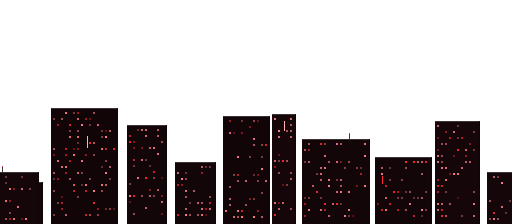
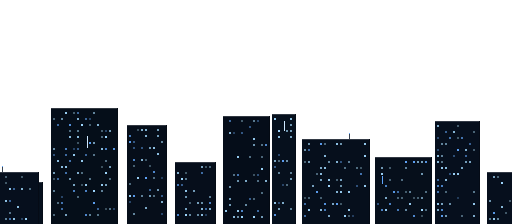
feat(stages): distinct scenery & enemy tint per stage
Levels felt samey (same enemies + buildings). Now each stage is distinctive:
- Ciel + accent + fond par stage : neon-city rouge néon, toxic-plant vert acide,
  scorched-desert ambre, frost-lab glace bleue, sky-fortress rose (le ciel/fond
  ne sont plus du bleu générique ni tous rouges).
- Ennemis teintés de l'accent du stage (marcheurs/drones/tourelles/boss) pour
  qu'ils se distinguent d'un niveau à l'autre ; la teinte est préservée après le
  flash de dégâts / telegraph.

diff --git a/src/entities/Boss.ts b/src/entities/Boss.ts
@@ -36,6 +36,7 @@ export class Boss extends Phaser.Physics.Arcade.Sprite {
   private volleyShots = 3
   private invulnerable = false
   private enraged = false
+  private baseTint = 0xffffff
 
   constructor(
     scene: Phaser.Scene,
@@ -43,10 +44,12 @@ export class Boss extends Phaser.Physics.Arcade.Sprite {
     y: number,
     target: { x: number; y: number },
     onHpChange: (hp: number, max: number) => void,
+    tint?: number,
   ) {
     super(scene, x, y, 'boss')
     this.target = target
     this.onHpChange = onHpChange
+    this.baseTint = tint ?? 0xffffff
 
     scene.add.existing(this)
     scene.physics.add.existing(this)
@@ -54,6 +57,7 @@ export class Boss extends Phaser.Physics.Arcade.Sprite {
     this.body!.setSize(25, 24)
     this.body!.setOffset(9, 10)
     this.setCollideWorldBounds(true)
+    this.setTint(this.baseTint)
     this.play('boss-idle')
   }
 
@@ -64,7 +68,7 @@ export class Boss extends Phaser.Physics.Arcade.Sprite {
       this.enraged = true
       this.setTintFill(0xff6b5e)
       this.scene.time.delayedCall(220, () => {
-        if (this.active) this.clearTint()
+        if (this.active) this.setTint(this.baseTint)
       })
       sfx.telegraph()
       ;(this.scene as Phaser.Scene & { onBossEnraged?(): void }).onBossEnraged?.()
@@ -126,7 +130,7 @@ export class Boss extends Phaser.Physics.Arcade.Sprite {
     this.setVelocityX(0)
     this.setTintFill(0xffffff)
     this.scene.time.delayedCall(90, () => {
-      if (this.active) this.clearTint()
+      if (this.active) this.setTint(this.baseTint)
     })
     sfx.telegraph()
   }
@@ -186,7 +190,7 @@ export class Boss extends Phaser.Physics.Arcade.Sprite {
 
     this.setTintFill(0xffffff)
     this.scene.time.delayedCall(60, () => {
-      if (this.active) this.clearTint()
+      if (this.active) this.setTint(this.baseTint)
       this.invulnerable = false
     })
 

diff --git a/src/entities/Turret.ts b/src/entities/Turret.ts
@@ -8,10 +8,12 @@ export class Turret extends Phaser.Physics.Arcade.Sprite implements StageEnemy {
   private cooldown = 1200
   private target: { x: number; y: number }
   private telegraphing = 0
+  private baseTint = 0xffffff
 
-  constructor(scene: Phaser.Scene, x: number, y: number, target: { x: number; y: number }) {
+  constructor(scene: Phaser.Scene, x: number, y: number, target: { x: number; y: number }, tint?: number) {
     super(scene, x, y, 'turret')
     this.target = target
+    this.baseTint = tint ?? 0xffffff
 
     scene.add.existing(this)
     scene.physics.add.existing(this)
@@ -21,6 +23,7 @@ export class Turret extends Phaser.Physics.Arcade.Sprite implements StageEnemy {
     // Hitbox centrée et généreuse : l'ancien décalage (3,8) plaquait le corps
     // en bas (Y 260-270) et les balles du joueur (Y~258) passaient au-dessus.
     this.body!.setSize(16, 16)
+    this.setTint(this.baseTint)
     this.setFlipX(target.x < x)
   }
 
@@ -45,7 +48,7 @@ export class Turret extends Phaser.Physics.Arcade.Sprite implements StageEnemy {
 
   private fire() {
     this.cooldown = 1500
-    this.clearTint()
+    this.setTint(this.baseTint) // retour à la teinte du stage après le telegraph
     sfx.turretShot()
     const sx = this.x + (this.flipX ? -10 : 10)
     const sy = this.y + 1
@@ -64,7 +67,7 @@ export class Turret extends Phaser.Physics.Arcade.Sprite implements StageEnemy {
     } else {
       this.setTintFill(0xffffff)
       this.scene.time.delayedCall(70, () => {
-        if (this.active) this.clearTint()
+        if (this.active) this.setTint(this.baseTint)
       })
     }
   }

diff --git a/src/entities/Enemy.ts b/src/entities/Enemy.ts
@@ -19,11 +19,13 @@ export class Enemy extends Phaser.Physics.Arcade.Sprite implements StageEnemy {
   private chaseSpeed = 46
   private aggroRange = 110
   private target: { x: number; y: number }
+  private baseTint = 0xffffff
 
-  constructor(scene: Phaser.Scene, x: number, y: number, target?: { x: number; y: number }) {
+  constructor(scene: Phaser.Scene, x: number, y: number, target?: { x: number; y: number }, tint?: number) {
     super(scene, x, y, 'enemy')
     this.startX = x
     this.target = target ?? { x, y }
+    this.baseTint = tint ?? 0xffffff
 
     scene.add.existing(this)
     scene.physics.add.existing(this)
@@ -32,6 +34,7 @@ export class Enemy extends Phaser.Physics.Arcade.Sprite implements StageEnemy {
     this.body!.setOffset(4, 4)
     this.setCollideWorldBounds(true)
     this.setVelocityX(this.patrolSpeed)
+    this.setTint(this.baseTint)
     this.play('enemy-walk')
   }
 
@@ -81,10 +84,10 @@ export class Enemy extends Phaser.Physics.Arcade.Sprite implements StageEnemy {
         .spawnExplosion(this.x, this.y)
       this.disableBody(true, true)
     } else {
-      // Full white hit-flash damage feedback
+      // Full white hit-flash damage feedback, puis retour à la teinte du stage.
       this.setTintFill(0xffffff)
       this.scene.time.delayedCall(70, () => {
-        if (this.active) this.clearTint()
+        if (this.active) this.setTint(this.baseTint)
       })
     }
   }

diff --git a/src/stages.ts b/src/stages.ts
@@ -15,36 +15,36 @@ export const STAGES: StageDef[] = [
   {
     id: 'neon-city',
     name: 'NEON CITY',
-    skyTop: 0x2b1e4e, skyBottom: 0x0d0e15,
-    farColor: 0x241d3f, midColor: 0x191530,
+    skyTop: 0x1e0a10, skyBottom: 0x0a0405,
+    farColor: 0x1a080c, midColor: 0x0d0405,
     accent: 0xff2436,
   },
   {
     id: 'toxic-plant',
     name: 'TOXIC PLANT',
-    skyTop: 0x0f2e1e, skyBottom: 0x060f0a,
-    farColor: 0x12281c, midColor: 0x0d1f15,
+    skyTop: 0x0a1c12, skyBottom: 0x040a06,
+    farColor: 0x09200f, midColor: 0x050f08,
     accent: 0x4ade80,
   },
   {
     id: 'scorched-desert',
     name: 'SCORCHED DESERT',
-    skyTop: 0x3d1f0e, skyBottom: 0x160a04,
-    farColor: 0x2e1708, midColor: 0x1e1006,
+    skyTop: 0x1e0e06, skyBottom: 0x0a0402,
+    farColor: 0x1a0c04, midColor: 0x0d0602,
     accent: 0xfb923c,
   },
   {
     id: 'frost-lab',
     name: 'FROST LAB',
-    skyTop: 0x14325e, skyBottom: 0x071222,
-    farColor: 0x102540, midColor: 0x0a1a2e,
-    accent: 0xff7a8a,
+    skyTop: 0x0a1626, skyBottom: 0x04080c,
+    farColor: 0x091828, midColor: 0x060e1a,
+    accent: 0x93c5fd,
   },
   {
     id: 'sky-fortress',
     name: 'SKY FORTRESS',
-    skyTop: 0x4e1e3d, skyBottom: 0x12060f,
-    farColor: 0x38162b, midColor: 0x251020,
+    skyTop: 0x1e0a17, skyBottom: 0x0a0409,
+    farColor: 0x1a0a15, midColor: 0x0d050a,
     accent: 0xf472b6,
   },
 ]

diff --git a/src/entities/Flyer.ts b/src/entities/Flyer.ts
@@ -8,11 +8,13 @@ export class Flyer extends Phaser.Physics.Arcade.Sprite implements StageEnemy {
   private baseY: number
   private t = Math.random() * 2000
   private target: { x: number; y: number }
+  private baseTint = 0xffffff
 
-  constructor(scene: Phaser.Scene, x: number, y: number, target: { x: number; y: number }) {
+  constructor(scene: Phaser.Scene, x: number, y: number, target: { x: number; y: number }, tint?: number) {
     super(scene, x, y, 'flyer')
     this.baseY = y
     this.target = target
+    this.baseTint = tint ?? 0xffffff
 
     scene.add.existing(this)
     scene.physics.add.existing(this)
@@ -20,6 +22,7 @@ export class Flyer extends Phaser.Physics.Arcade.Sprite implements StageEnemy {
     ;(this.body as Phaser.Physics.Arcade.Body).allowGravity = false
     this.body!.setSize(12, 7)
     this.body!.setOffset(4, 4)
+    this.setTint(this.baseTint)
     this.play('flyer-fly')
   }
 
@@ -54,7 +57,7 @@ export class Flyer extends Phaser.Physics.Arcade.Sprite implements StageEnemy {
     } else {
       this.setTintFill(0xffffff)
       this.scene.time.delayedCall(70, () => {
-        if (this.active) this.clearTint()
+        if (this.active) this.setTint(this.baseTint)
       })
     }
   }

diff --git a/src/scenes/GameScene.ts b/src/scenes/GameScene.ts
@@ -766,9 +766,9 @@ export class GameScene extends Phaser.Scene {
   private spawnEnemies() {
     for (const d of this.ents.enemies) {
       let enemy: StageEnemy
-      if (d.kind === 'flyer') enemy = new Flyer(this, d.x, d.y, this.player)
-      else if (d.kind === 'turret') enemy = new Turret(this, d.x, d.y, this.player)
-      else enemy = new Enemy(this, d.x, d.y, this.player)
+      if (d.kind === 'flyer') enemy = new Flyer(this, d.x, d.y, this.player, this.stage.accent)
+      else if (d.kind === 'turret') enemy = new Turret(this, d.x, d.y, this.player, this.stage.accent)
+      else enemy = new Enemy(this, d.x, d.y, this.player, this.stage.accent)
       this.enemies.add(enemy as unknown as Phaser.Physics.Arcade.Sprite)
       this.enemyCount++
     }
@@ -881,7 +881,7 @@ export class GameScene extends Phaser.Scene {
   }
 
   private spawnBoss() {
-    const boss = new Boss(this, this.ents.bossX, 262, this.player, (hp, max) => this.drawBossBar(hp, max))
+    const boss = new Boss(this, this.ents.bossX, 262, this.player, (hp, max) => this.drawBossBar(hp, max), this.stage.accent)
     this.boss = boss
     this.bossActive = true
     // Colliders sur les DEUX couches : sans `ground`, le boss tombait à
